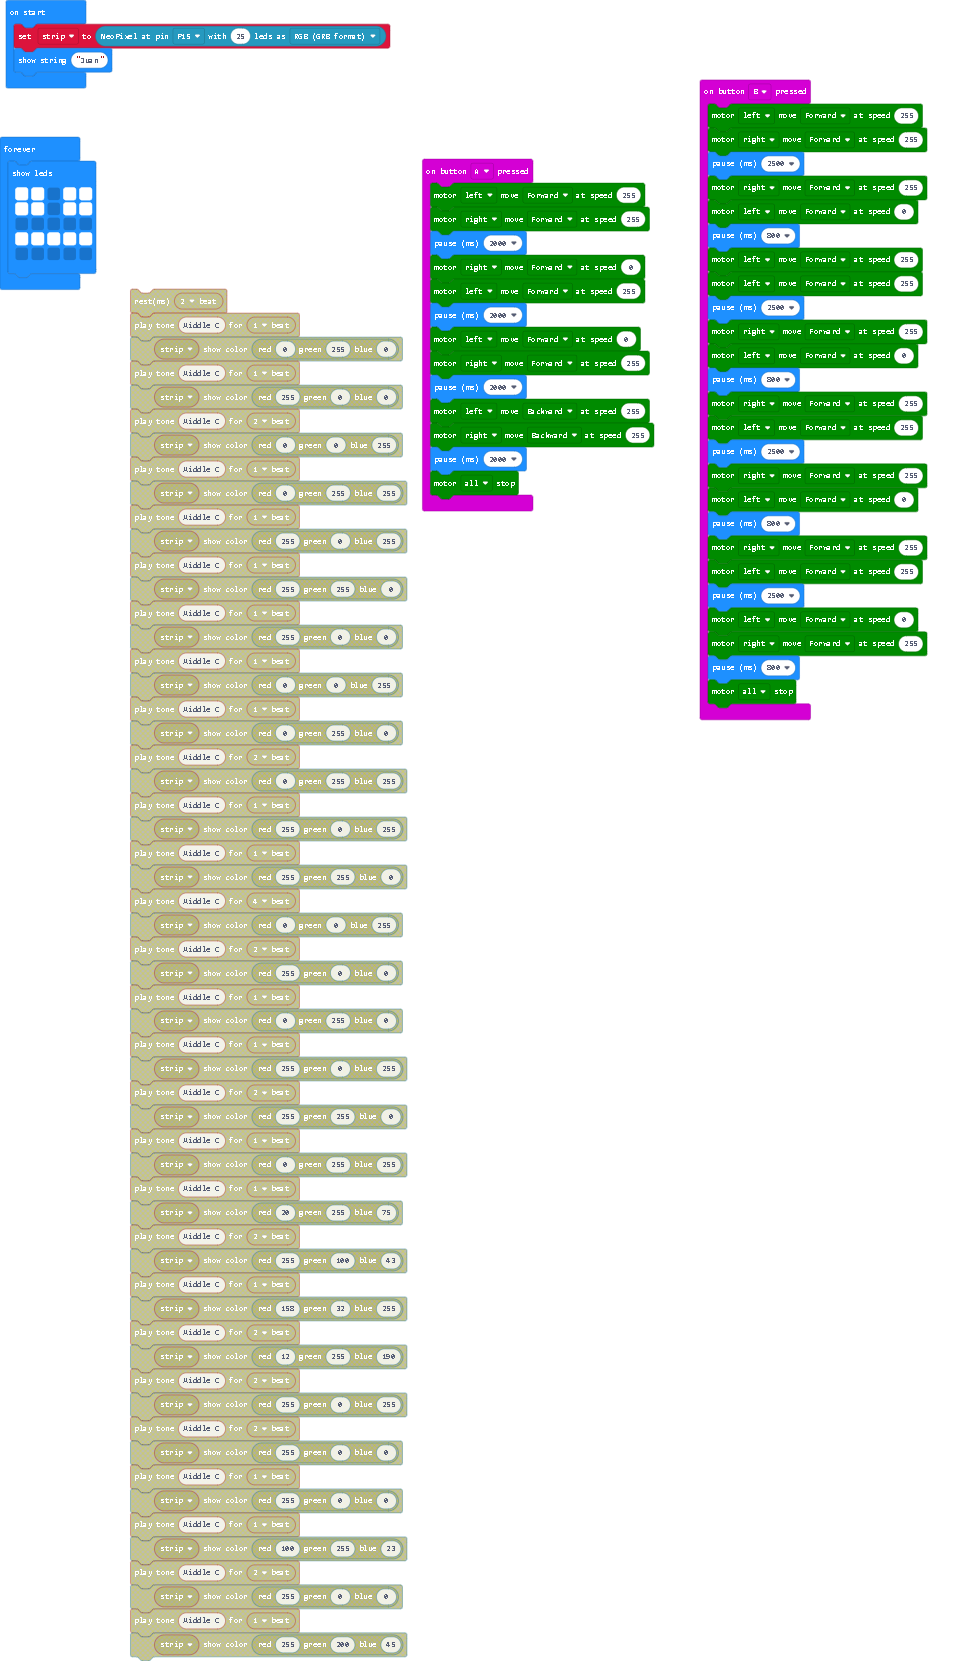
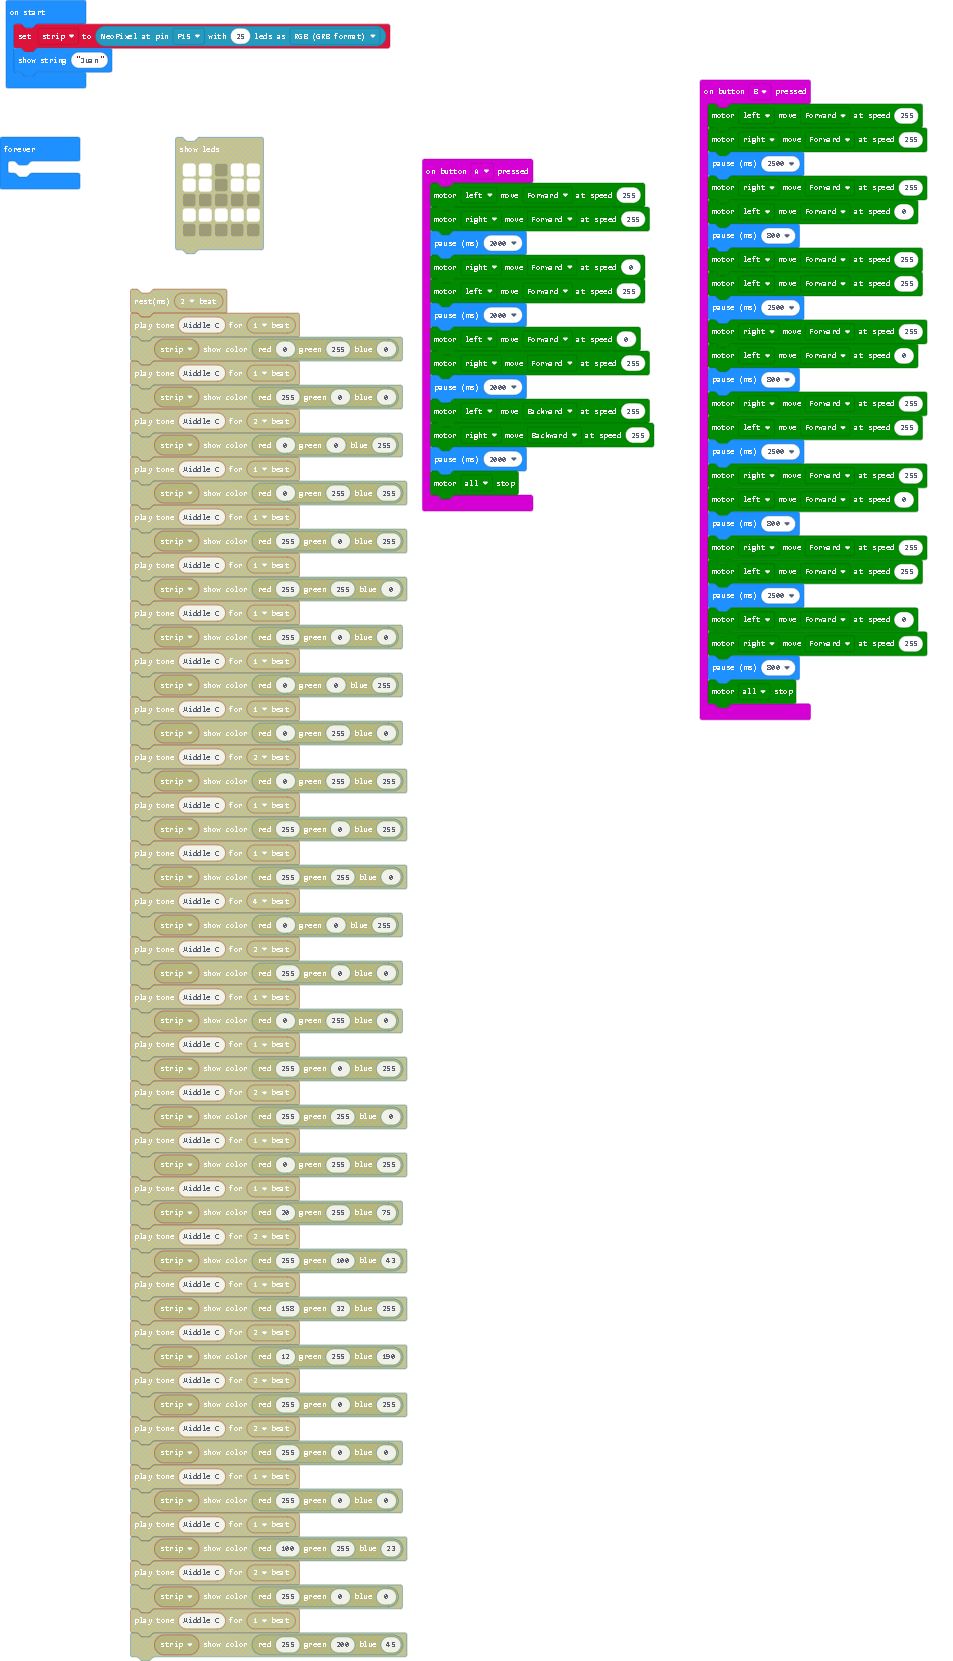
Update main.blocks, main.ts

Changed region(s): [[0.0, 0.0921, 0.1217, 0.1842], [0.1826, 0.0614, 0.3043, 0.1535]]

diff --git a/main.ts b/main.ts
@@ -43,11 +43,5 @@ input.onButtonPressed(Button.B, function () {
 let strip = neopixel.create(DigitalPin.P15, 25, NeoPixelMode.RGB)
 basic.showString("Juan")
 basic.forever(function () {
-    basic.showLeds(`
-        # # . # #
-        # # . # #
-        . . . . .
-        # # # # #
-        . . . . .
-        `)
+	
 })
